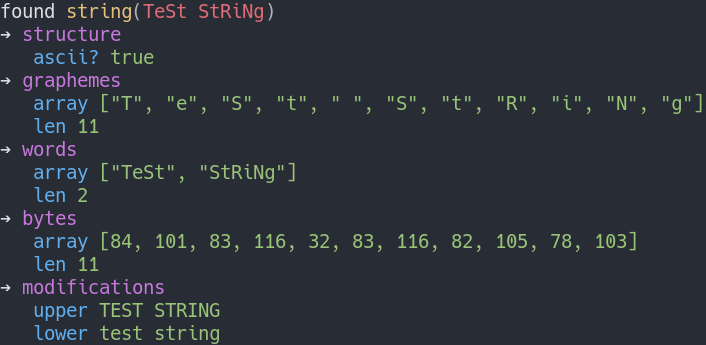
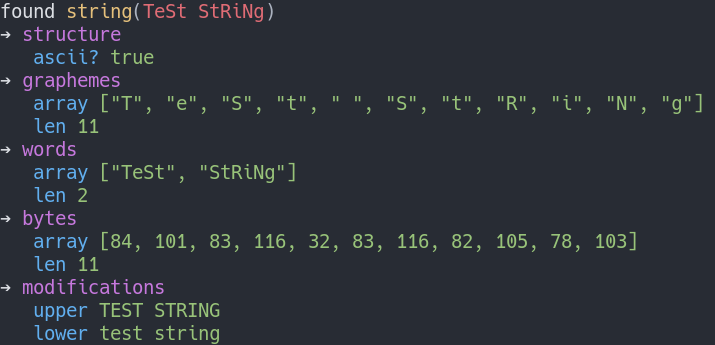
v0.4.0

diff --git a/src/pass/integer.rs b/src/pass/integer.rs
@@ -2,11 +2,12 @@
 
 use super::*;
 use color;
+use primal::{as_perfect_power, is_prime};
 
 /// Run all passes with this `u128`.
 pub fn run(integer: u128, config: &Config) {
     color::found(&integer.to_string(), "u128");
-    pass_sequence!(&integer, config; radix, misc);
+    pass_sequence!(&integer, config; radix, prime, power);
 }
 
 /// Print this `u128` in different radixes.
@@ -23,7 +24,7 @@ fn radix(integer: &u128) {
     let trailing_zeros = integer.trailing_zeros();
 
     info!("bin", bin);
-    info!("  ├ ones", ones);
+    info!(2; "├ ones", ones);
 
     indent_println!(
         "{} {} ({})",
@@ -32,20 +33,43 @@ fn radix(integer: &u128) {
         zeros.to_string().green().bold()
     );
 
-    info!("  ├ leading zeros", leading_zeros);
-    info!("  └ trailing zeros", trailing_zeros);
+    info!(2; "├ leading zeros", leading_zeros);
+    info!(2; "└ trailing zeros", trailing_zeros);
     info!("oct", oct);
     info!("dec", dec);
     info!("hex", hex);
     info!("HEX", hex_upper);
 }
 
-/// Print misc information about this `u128`.
-fn misc(integer: &u128) {
-    let next = match integer.checked_next_power_of_two() {
-        Some(v) => v.to_string().green().bold(),
-        None => String::from("n/a").cyan().bold(),
-    };
+/// Print if this `u128` is prime.
+fn prime(integer: &u128) {
+    if *integer <= (u64::max_value() as u128) {
+        info!("prime?", is_prime(*integer as u64));
+    } else {
+        na!("prime?");
+    }
+}
 
-    println!("   {} {}", "next 2^x".blue().bold(), next);
+/// Print information about this `u128` related to powers.
+fn power(integer: &u128) {
+    if *integer <= (u64::max_value() as u128) {
+        let perfect_power = as_perfect_power(*integer as u64);
+        info!("perfect a^k", format!("{} ^ {}", perfect_power.0, perfect_power.1));
+    } else {
+        na!("perfect a^k");
+    }
+
+    let is_power_of_two = integer.is_power_of_two();
+    info!("2^k?", is_power_of_two);
+
+    // If `integer` is already a power of two, find the actual next one.
+    match (if is_power_of_two {
+        integer.saturating_add(1)
+    } else {
+        *integer
+    }).checked_next_power_of_two()
+    {
+        Some(v) => info!("next 2^k", v),
+        None => na!("next 2^k"),
+    };
 }

diff --git a/src/lib.rs b/src/lib.rs
@@ -6,7 +6,7 @@
 //! ```
 //!
 //! # Usage
-//! While you don't see it below, it prints everything in color.
+//! While you can't see it below, it prints everything in color.
 //!
 //! #### Numbers
 //! Supported formats:
@@ -18,18 +18,22 @@
 //! ```console
 //! $ b0x 0xC0FFEE
 //! found u128(12648430)
-//! --> radix
-//! bin 110000001111111111101110
-//!   ├ ones 16
-//!   ├ zeros 8 (112)
-//!   ├ leading zeros 104
-//!   └ trailing zeros 1
-//! oct 60177756
-//! dec 12648430
-//! hex c0ffee
-//! HEX C0FFEE
-//! --> misc
-//! next 2^x 16777216
+//! ➔ radix
+//!    bin 110000001111111111101110
+//!      ├ ones 16
+//!      ├ zeros 8 (112)
+//!      ├ leading zeros 104
+//!      └ trailing zeros 1
+//!    oct 60177756
+//!    dec 12648430
+//!    hex c0ffee
+//!    HEX C0FFEE
+//! ➔ prime
+//!    prime? false
+//! ➔ misc
+//!    perfect a^k 12648430 ^ 1
+//!    2^k? false
+//!    next 2^k 16777216
 //! ```
 //!
 //! #### Strings
@@ -37,28 +41,29 @@
 //! ```console
 //! $ b0x "TeSt StRiNg"
 //! found string(TeSt StRiNg)
-//! --> structure
+//! ➔ structure
 //! ascii? true
-//! --> graphemes
-//!  ["T", "e", "S", "t", " ", "S", "t", "R", "i", "N", "g"]
+//! ➔ graphemes
+//! array ["T", "e", "S", "t", " ", "S", "t", "R", "i", "N", "g"]
 //! len 11
-//! --> words
-//!  ["TeSt", "StRiNg"]
+//! ➔ words
+//! array ["TeSt", "StRiNg"]
 //! len 2
-//! --> bytes
-//!  [84, 101, 83, 116, 32, 83, 116, 82, 105, 78, 103]
+//! ➔ bytes
+//! array [84, 101, 83, 116, 32, 83, 116, 82, 105, 78, 103]
 //! len 11
-//! --> modifications
+//! ➔ modifications
 //! upper TEST STRING
 //! lower test string
 //! ```
 
 extern crate colored;
+extern crate primal;
 extern crate unicode_segmentation;
 
 mod color;
-pub mod pass;
 pub mod config;
+pub mod pass;
 
 use config::Config;
 

diff --git a/src/pass/mod.rs b/src/pass/mod.rs
@@ -54,7 +54,12 @@ impl<'a, T> PassSequence<'a, T> {
 
                 pass.run(input);
             } else {
-                println!("{} {} {}", "✘".white().bold(), &pass.name.magenta().bold(), "ignored".white().bold());
+                println!(
+                    "{} {} {}",
+                    "✘".white().bold(),
+                    &pass.name.magenta().bold(),
+                    "ignored".white().bold()
+                );
             }
         }
     }
@@ -66,24 +71,40 @@ macro_rules! pass_sequence {
 
         $( seq.add_pass(Pass::new(Box::new($pass), stringify!($pass))); )*
 
-        seq.run($input);
+        seq.run($input)
     };
 }
 
 macro_rules! indent_println {
-    ($( $args:expr ),*) => {
-        print!("{}", INFO_INDENT);
-        println!($( $args ),*);
+    ($add_indent_level:expr; $( $args:expr ),*) => {
+        println!("{}{}{}", INFO_INDENT, " ".repeat($add_indent_level), format!($( $args ),*))
     };
+
+    ($( $args:expr ),*) => {
+        indent_println!(0; $( $args ),*)
+    }
 }
 
 macro_rules! info {
-    ($name:expr, $value:expr) => {
+    ($add_indent_level:expr; $name:expr, $value:expr) => {
         indent_println!(
+            $add_indent_level;
             "{} {}",
             $name.to_string().blue().bold(),
             $value.to_string().green().bold()
         )
+    };
+    ($name:expr, $value:expr) => {
+        info!(0; $name, $value)
+    };
+}
+
+macro_rules! na {
+    ($add_indent_level:expr; $name:expr) => {
+        info!($add_indent_level; $name, "n/a".cyan().bold())
+    };
+    ($name:expr) => {
+        na!(0; $name)
     };
 }
 

diff --git a/src/bin/main.rs b/src/bin/main.rs
@@ -34,7 +34,8 @@ fn main() {
                 .possible_values(&[
                     // integer
                     "radix",
-                    "misc",
+                    "prime",
+                    "power",
                     // string
                     "structure",
                     "graphemes",

diff --git a/CHANGELOG.md b/CHANGELOG.md
@@ -3,9 +3,14 @@ All notable changes to this project will be documented in this file.
 The format is based on [Keep a Changelog](http://keepachangelog.com/en/1.0.0/)
 and this project adheres to [Semantic Versioning](http://semver.org/spec/v2.0.0.html).
 
-## [Unreleased] - ????-??-??
+## [0.4.0] - 2018-10-14
+### Added
+- Prime and perfect power checks
+
+## [0.3.2] - 2018-10-14
 ### Changed
 - `✘` instead of `x`
+- `•` instead of `⋅`
 
 ## [0.3.1] - 2018-09-07
 ### Changed
